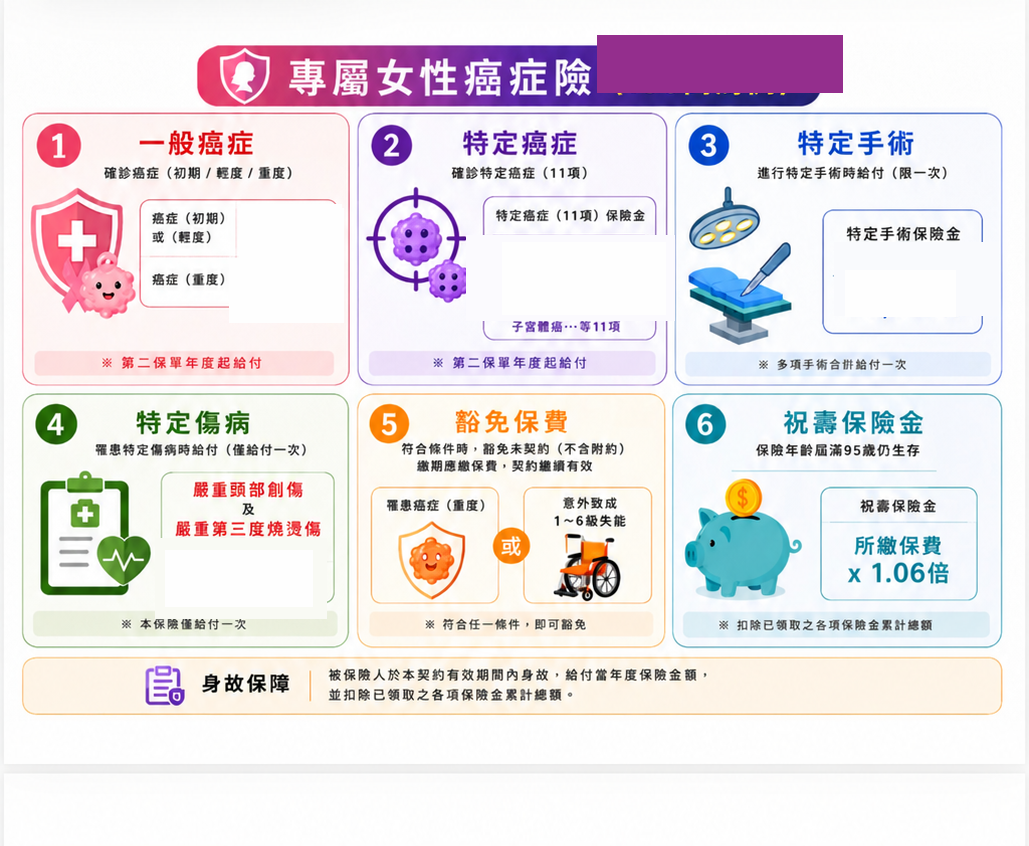
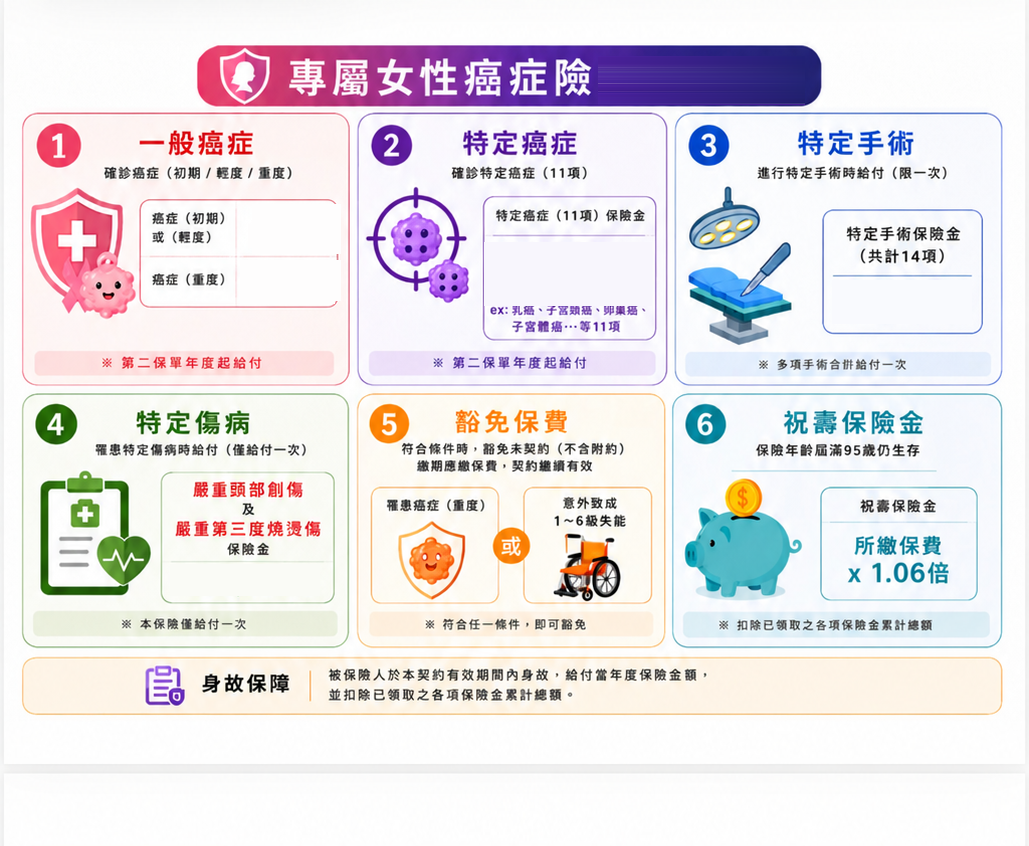
Revert chart over-fills; patch only CIB box1 digit ghosts
Restore cia/cib bases and overlay CSS from 0e0d6af, then solid-fill
only the residual red digits in CIB card-1 value cells (inset). Title
bar, box2 ex-line, and cards 3–4 left untouched.

diff --git a/index.html b/index.html
@@ -166,12 +166,12 @@ body.theme-cib .ov.ov-title{color:#6a1b9a; background:#fff; border-color:#fff}
 .ov-blue{color:#1565c0}
 .ov-purple{color:#6a1b9a}
 .ov-green{color:#2e7d32}
-/* positions as % of chart — centered in inset solid-fill amount boxes */
-.ov-c1a{left:28.3%; top:26.7%; font-size:clamp(9px, 2.0cqw, 20px); max-width:8.0%}
-.ov-c1b{left:28.2%; top:32.9%; font-size:clamp(8px, 1.9cqw, 18px); max-width:7.8%}
-.ov-c2{left:56.8%; top:32.9%; font-size:clamp(8px, 1.85cqw, 18px); max-width:13.5%; white-space:nowrap; line-height:1.1}
-.ov-c3{left:87.5%; top:34.7%; font-size:clamp(9px, 2.0cqw, 20px); max-width:9.5%}
-.ov-c4{left:23.3%; top:68.3%; font-size:clamp(9px, 2.0cqw, 20px); max-width:12.5%}
+/* positions as % of 1026x845 chart — centered on erased digit boxes */
+.ov-c1a{left:28.2%; top:27.9%; font-size:clamp(10px, 2.15cqw, 24px); max-width:8.5%}
+.ov-c1b{left:28.1%; top:34.4%; font-size:clamp(10px, 2.15cqw, 24px); max-width:9.5%}
+.ov-c2{left:55.5%; top:32.2%; font-size:clamp(9px, 2.05cqw, 22px); max-width:15%; white-space:nowrap; line-height:1.12}
+.ov-c3{left:87.9%; top:35.6%; font-size:clamp(10px, 2.15cqw, 24px); max-width:13%}
+.ov-c4{left:23.8%; top:68.6%; font-size:clamp(10px, 2.15cqw, 24px); max-width:14%}
 .ov.compact{letter-spacing:-0.02em}
 .ov.compact .yen{font-size:.75em}
 
@@ -504,8 +504,8 @@ const UNIT_VIEWS={
   low:{units:[50,100,200,300], cls:['c05','c1','c2','c3'], th:[['u05','半單位'],['u1','1單位'],['u2','2單位'],['u3','3單位']]},
   high:{units:[400,500], cls:['c4','c5'], th:[['u4','4單位'],['u5','5單位']]}
 };
-const OVERLAY_MAX_PCT={ovC1a:8.0, ovC1b:7.8, ovC2:13.5, ovC3:9.5, ovC4:12.5};
-const OVERLAY_BASE_CQW={ovC1a:2.0, ovC1b:1.9, ovC2:1.85, ovC3:2.0, ovC4:2.0};
+const OVERLAY_MAX_PCT={ovC1a:8.5, ovC1b:9.5, ovC2:15.0, ovC3:13.0, ovC4:14.0};
+const OVERLAY_BASE_CQW={ovC1a:2.15, ovC1b:2.15, ovC2:2.05, ovC3:2.15, ovC4:2.15};
 
 /** 特定癌症：僅條款附表一。加成％依保單年度（第十五條），非依癌別。 */
 const SPECIFIC_CANCERS = {
@@ -712,28 +712,25 @@ function fitOverlay(el, maxPct, root){
   const W = chartImageWidth(stage);
   if(!W) return;
   const maxPx = Math.max(4, W * (maxPct/100));
-  const baseCqw = OVERLAY_BASE_CQW[el.id] || 2.0;
-  const fsCap = el.id==='ovC2' ? 20 : 22;
-  const softFloor = Math.max(7, W * 0.0075);
+  const baseCqw = OVERLAY_BASE_CQW[el.id] || 2.1;
+  const fsCap = el.id==='ovC2' ? 22 : 24;
+  const softFloor = Math.max(7, W * 0.008);
   let fs = Math.min(fsCap, Math.max(softFloor, W * (baseCqw/100)));
   el.style.maxWidth = maxPx + 'px';
   el.style.letterSpacing = '';
-  el.style.transform = 'translate(-50%, -50%)';
-  // keep each amount inside its row / card fill height
-  const maxH = el.id==='ovC2' ? stage.clientHeight * 0.095
-    : (el.id==='ovC1a' || el.id==='ovC1b') ? stage.clientHeight * 0.048
-    : stage.clientHeight * 0.06;
-  for(let i=0;i<56;i++){
+  const maxH = el.id==='ovC2' ? stage.clientHeight * 0.12 : stage.clientHeight * 0.065;
+  for(let i=0;i<48;i++){
     el.style.fontSize = fs + 'px';
     if(el.scrollWidth <= maxPx + 0.5 && el.scrollHeight <= maxH + 0.5) break;
-    fs *= 0.90;
+    fs *= 0.92;
     if(fs < softFloor){
-      el.style.letterSpacing = '-0.05em';
+      el.style.letterSpacing = '-0.04em';
     }
     if(fs < 6){
       fs = 6;
       el.style.fontSize = fs + 'px';
       el.style.letterSpacing = '-0.08em';
+      // last resort: scaleX to force fit without layout overflow
       if(el.scrollWidth > maxPx + 0.5){
         const sx = maxPx / el.scrollWidth;
         el.style.transform = 'translate(-50%, -50%) scaleX('+sx.toFixed(4)+')';
@@ -741,6 +738,7 @@ function fitOverlay(el, maxPct, root){
       break;
     }
   }
+  // reset scale if not needed
   if(el.scrollWidth <= maxPx + 0.5){
     el.style.transform = 'translate(-50%, -50%)';
   }
